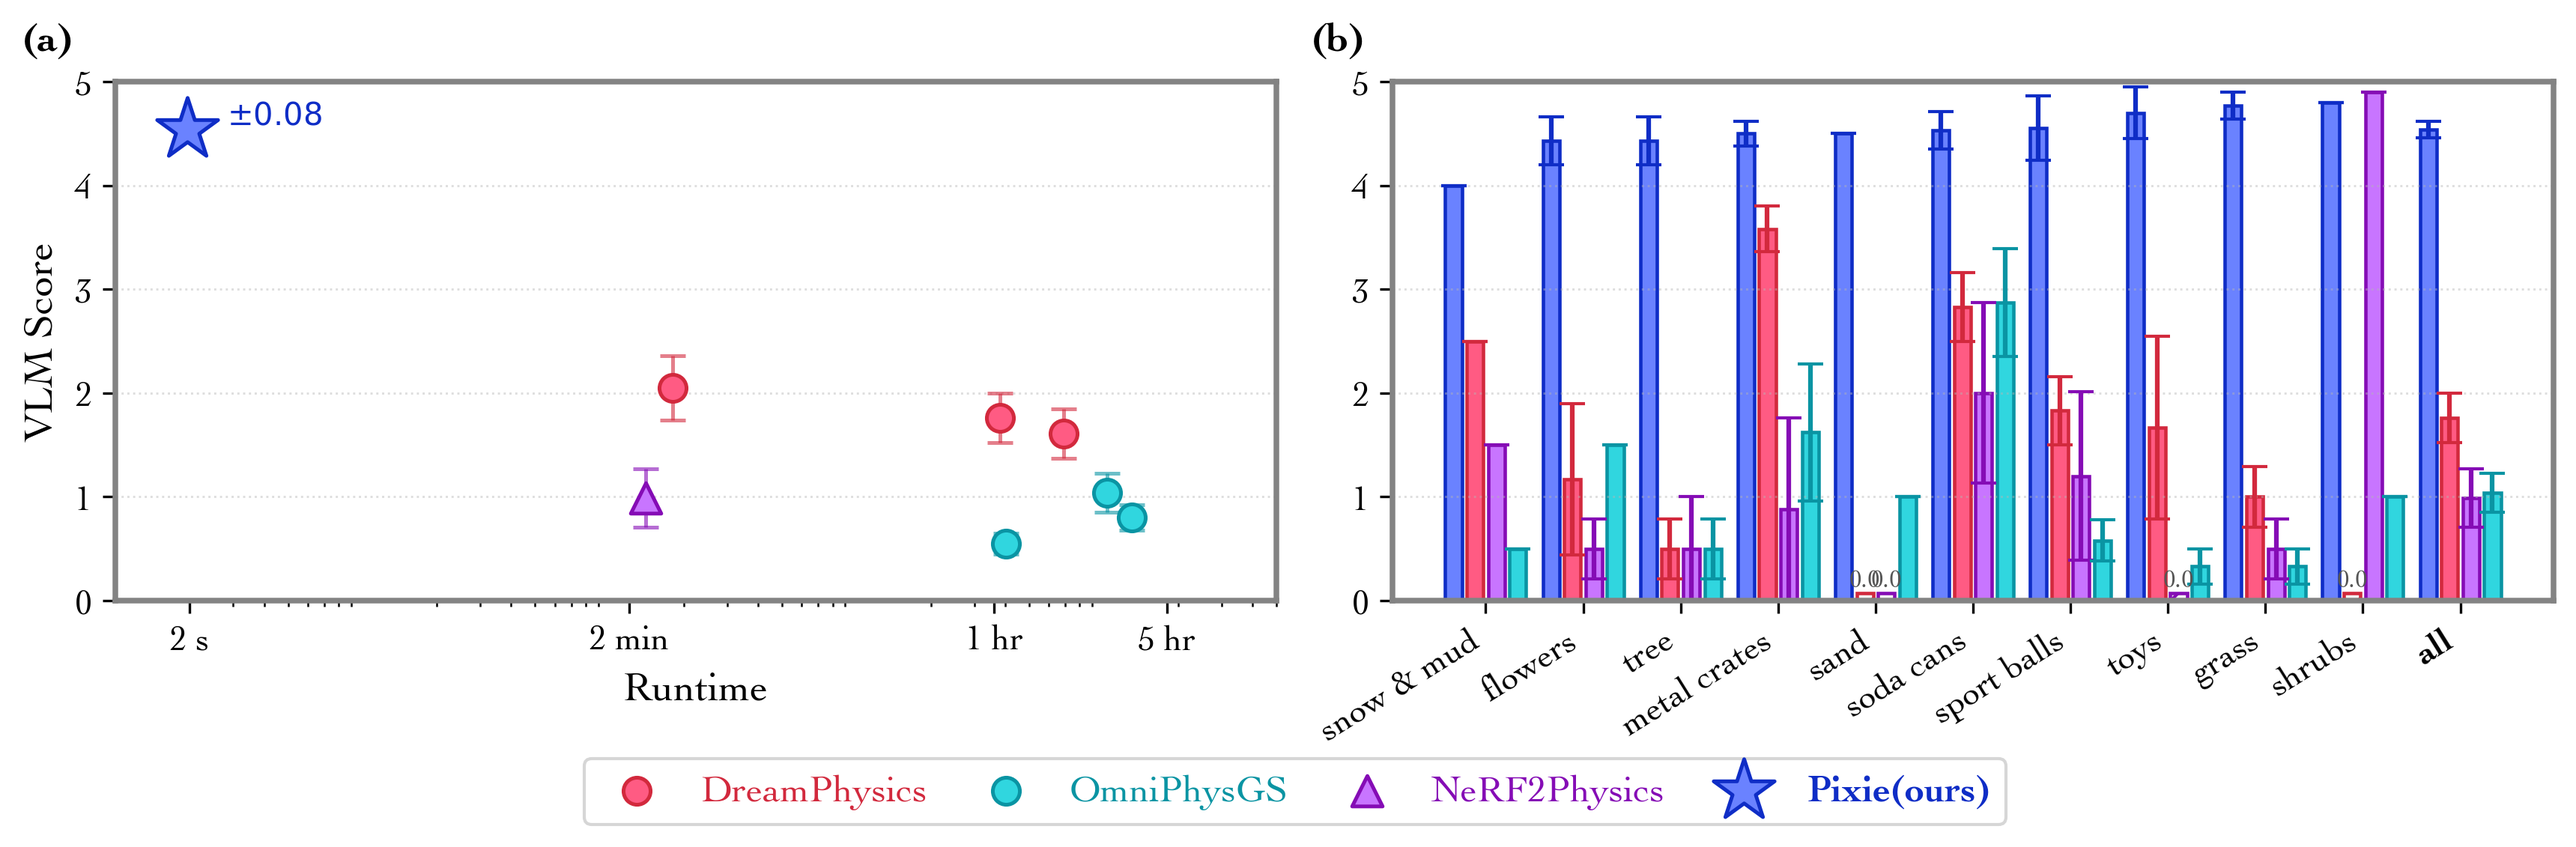
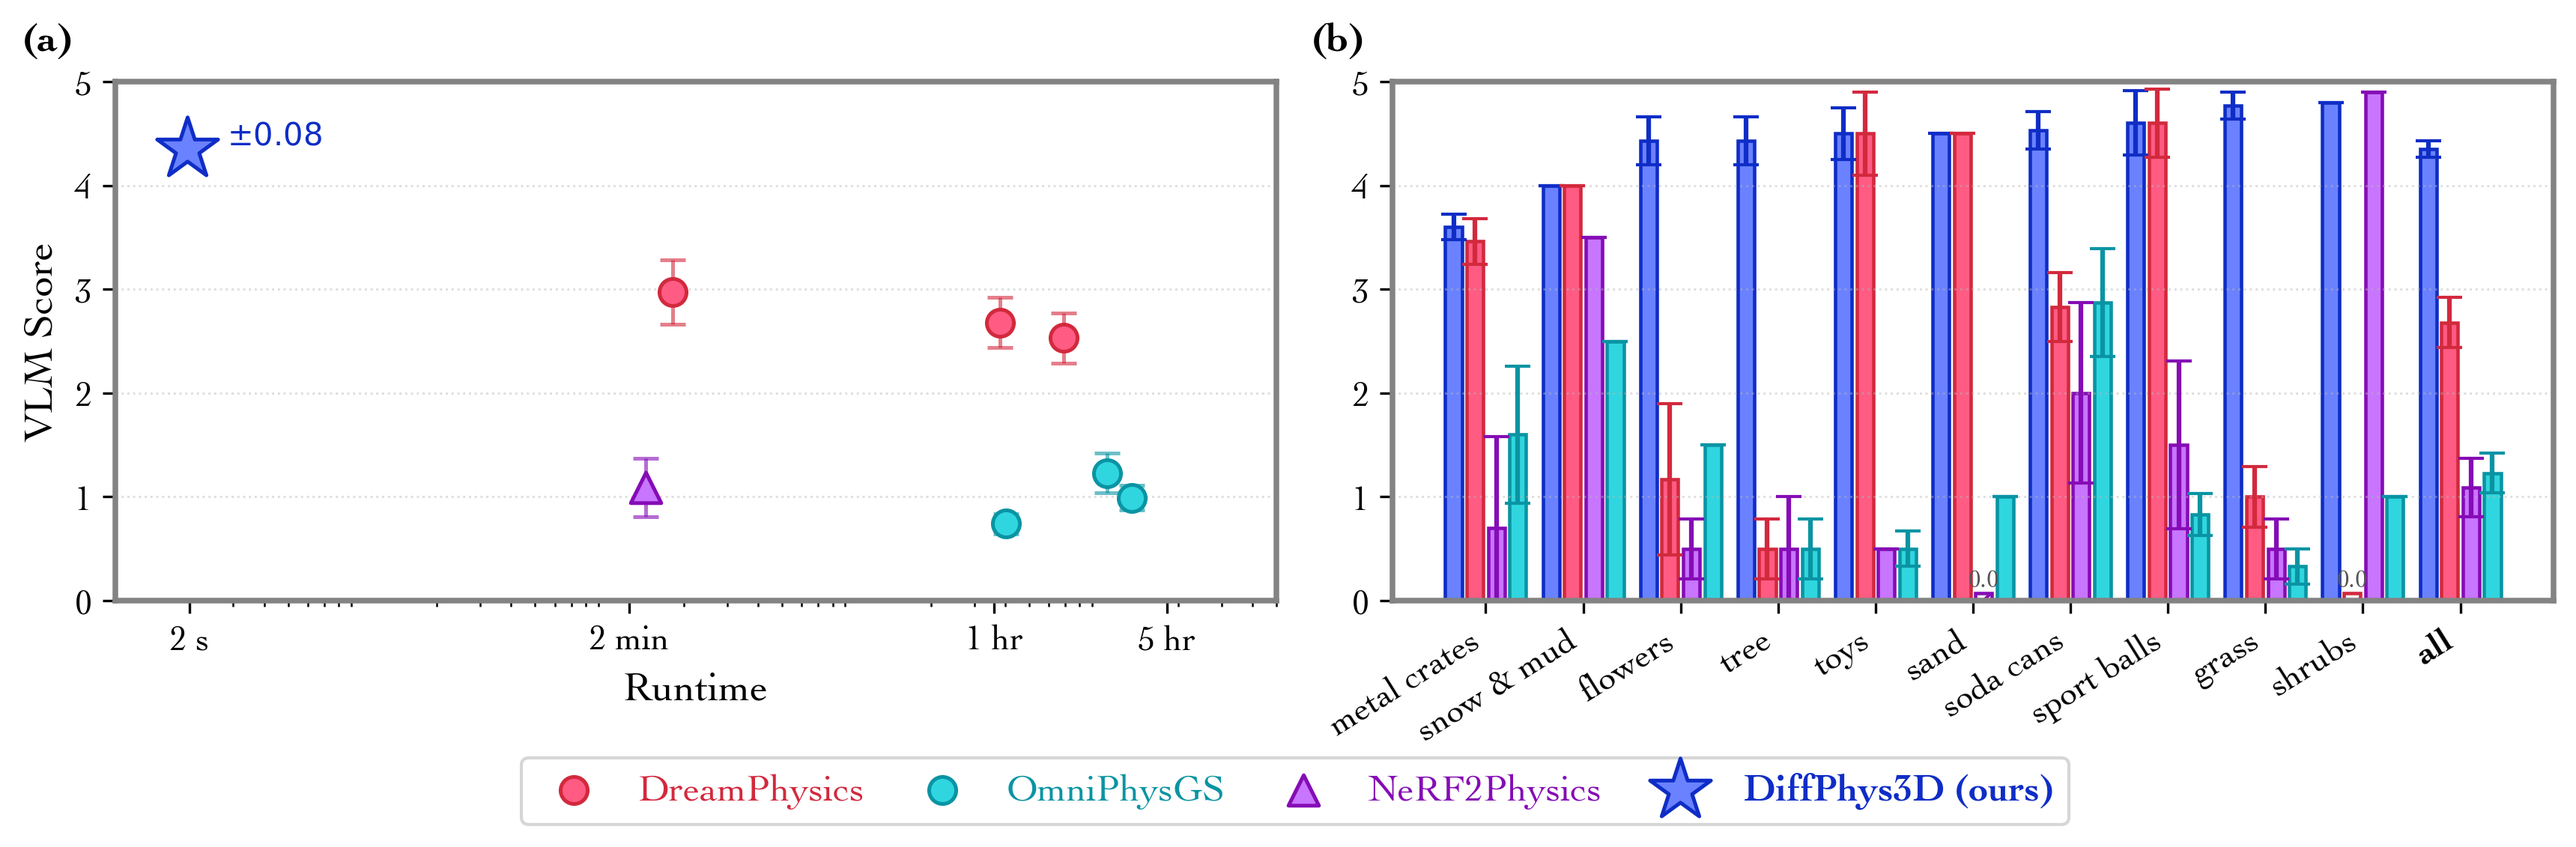
update quantitative results after manually re-evaluating snow, toys, ducks, shrubs + sand

diff --git a/index.html b/index.html
@@ -499,7 +499,7 @@
 
         <!-- <p class="content is-size-5 has-text-justified"> -->
         <strong>VLM Score vs Runtime:</strong> On the PixieVerse benchmark, Pixie outperforms DreamPhysics, OmniPhysGS
-        and NeRF2Physics by 2.2–4.6× in
+        and NeRF2Physics by 1.46-4.39x in
         Gemini‑Pro realism while running <em>10³×</em> faster.
         <!-- </p> -->
       </figure>
@@ -519,7 +519,7 @@
         method optimizes including discrete material accuracy and continuous errors over E, ν, ρ. Standard
         errors and 95% CI are also included, and best values are <strong>bolded</strong>. Pixie is by far the best
         performer.
-        2.21-4.58x improvement in VLM score and 3.6-30.3% gains in PSNR and SSIM against competitors!
+        1.46-4.39x improvement in VLM score and 3.6-30.3% gains in PSNR and SSIM against competitors!
       </figure>
 
       <!-- 
